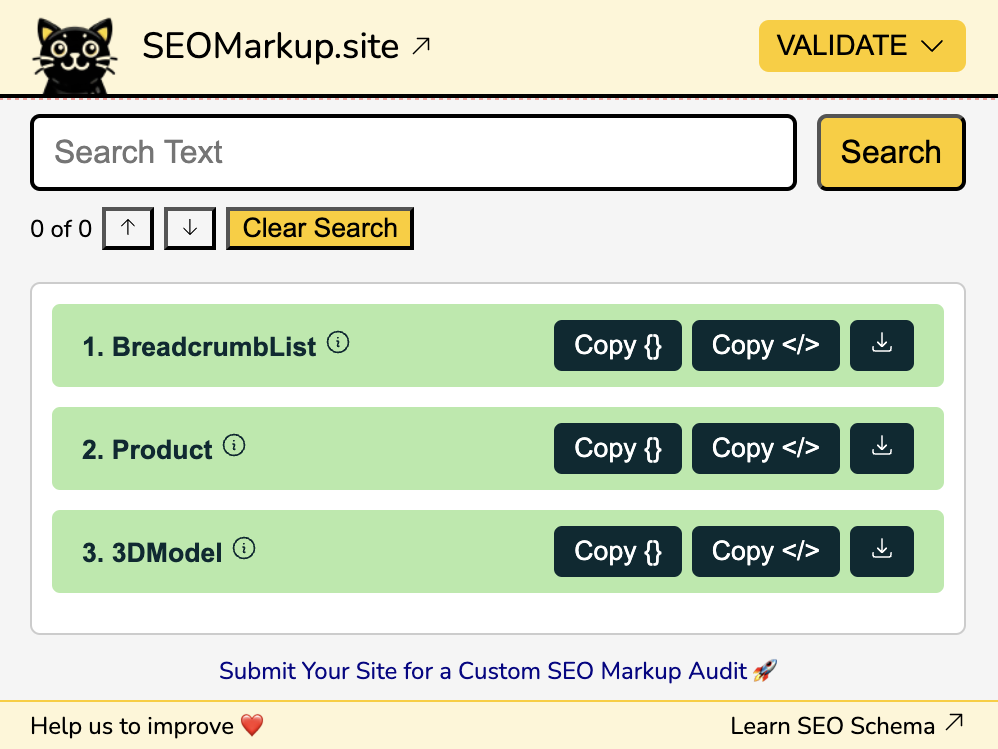
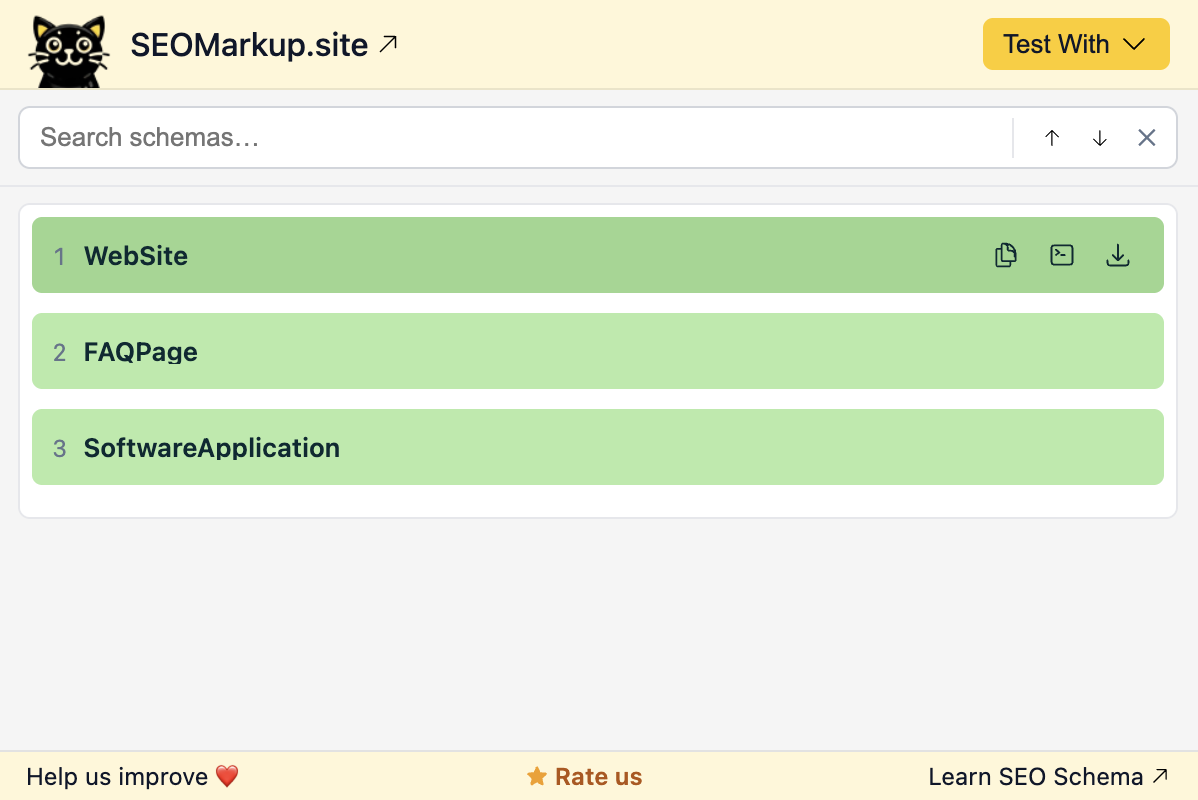
feat: update README and add demo modal with recording GIF

diff --git a/README.md b/README.md
@@ -17,7 +17,7 @@ Instantly view all JSON-LD structured data on the active tab. Supports `@graph` 
 
 **[Install from the Chrome Web Store →](https://chromewebstore.google.com/detail/structured-data-schema-in/gaclifbkjcockpefkcjpgggmeolckind)**
 
-![SEOMarkup extension popup showing BreadcrumbList, Product, and 3DModel schemas with copy and download buttons](website/public/screenshot.png)
+![SEOMarkup extension in action — detecting and displaying JSON-LD schemas on a page](website/public/app-recording.gif)
 
 ### Run locally
 
